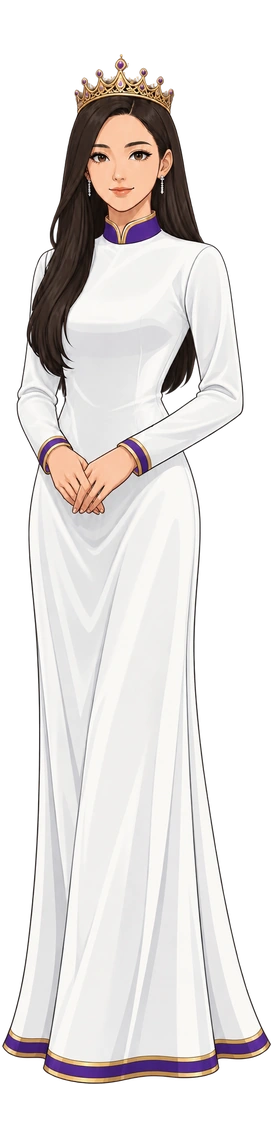
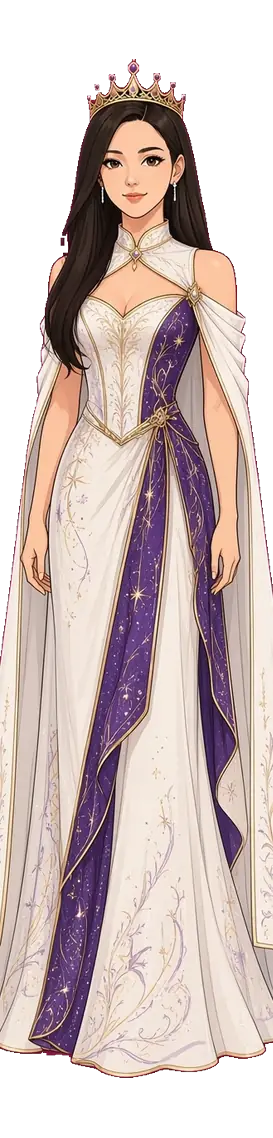
Redesign the galaxy queen's gown as a celestial dress.
Keep her face, hair, crown, and pose. Replace the tunic with a white gown, structured bodice, short cape, and purple-gold star trim.

diff --git a/prototype/teammate-type/app.js b/prototype/teammate-type/app.js
@@ -292,7 +292,7 @@ export const TYPES = {
       gentle: "你把這場的中心放得很輕，人卻願意靠過來。",
       literary: "「不是大聲，是這一圈終於有了中心。」",
       strength: "定得住場，也讓人想站到你旁邊。",
-      alt: "黑長直髮、深棕眼睛、戴細金冠、穿白底紫金邊長裙的人",
+      alt: "黑長直髮、深棕眼睛、戴細金冠、穿白底紫金星紋長裙與短披風的人",
     },
     en: {
       name: "Daughter of the Galaxy",
@@ -301,7 +301,7 @@ export const TYPES = {
       gentle: "You set the center of the room so lightly that people still come closer.",
       literary: "\"Not louder. This circle finally has a center.\"",
       strength: "Holds the room, and makes people want to stand beside you.",
-      alt: "A black-haired woman with dark brown eyes, a slim gold crown, and a floor-length white gown with purple-gold trim",
+      alt: "A black-haired woman with dark brown eyes, a slim gold crown, a floor-length white gown with purple-gold stars, and a short cape",
     },
   },
   andromeda: {
